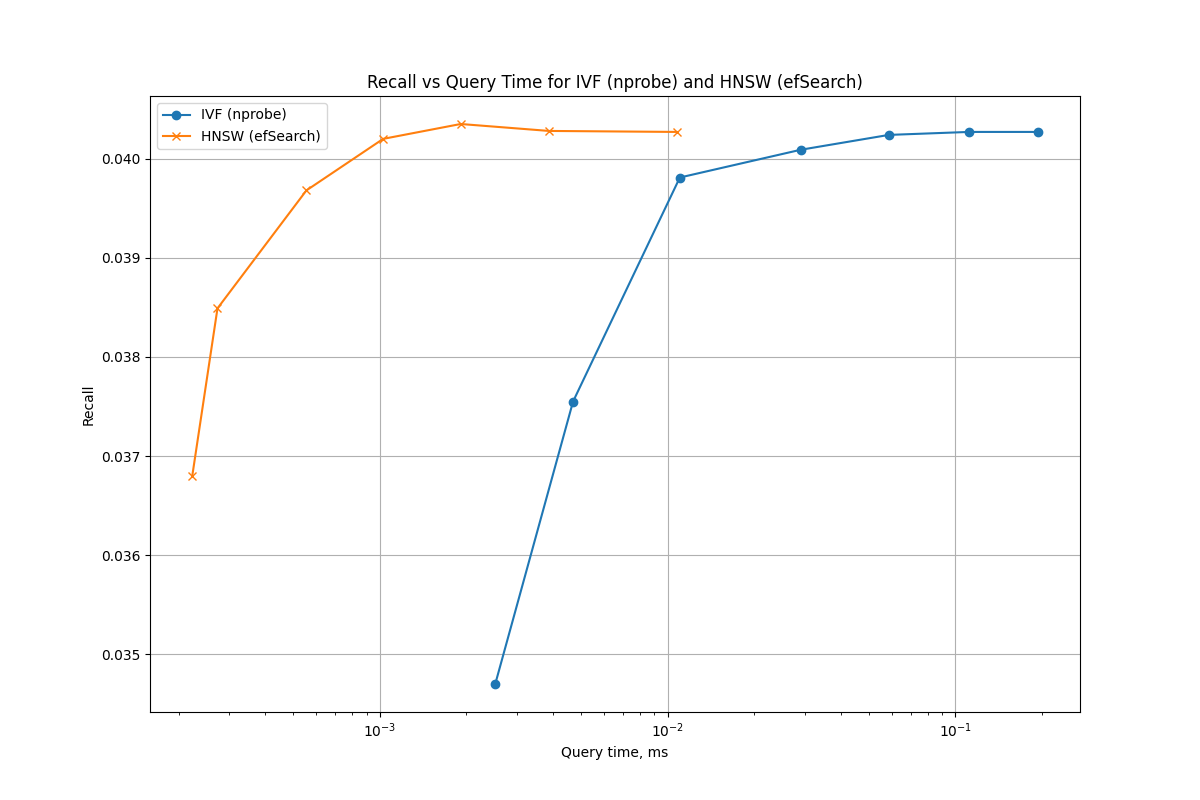
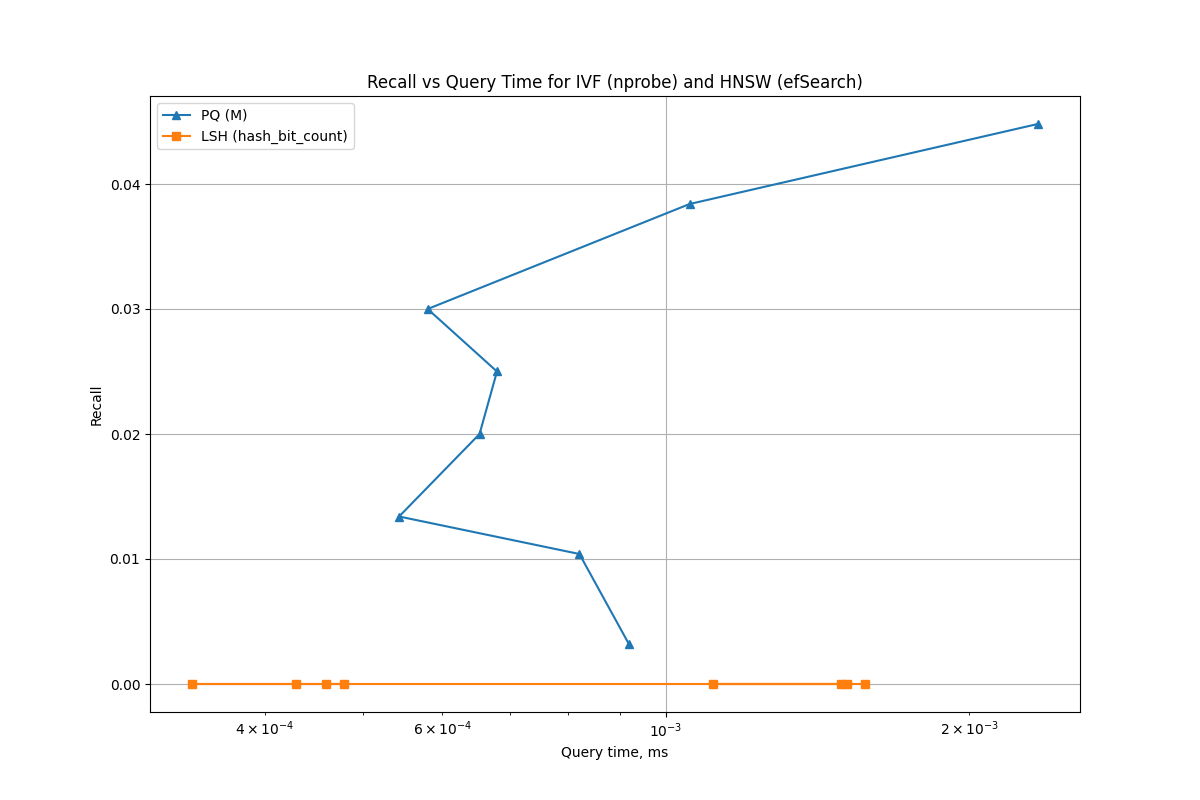
LSH 수정

diff --git a/gist1m.py b/gist1m.py
@@ -112,7 +112,7 @@ for efSearch in efSearch_values:
 print("HNSW 검색 완료")
 
 # PQ의 M 값 변경에 따른 성능 측정
-M_values = [2, 3, 4, 5, 6, 8, 10, 12]
+M_values = [40, 48, 60, 64, 80, 96, 120, 160]
 pq_results = []
 
 for M in M_values:
